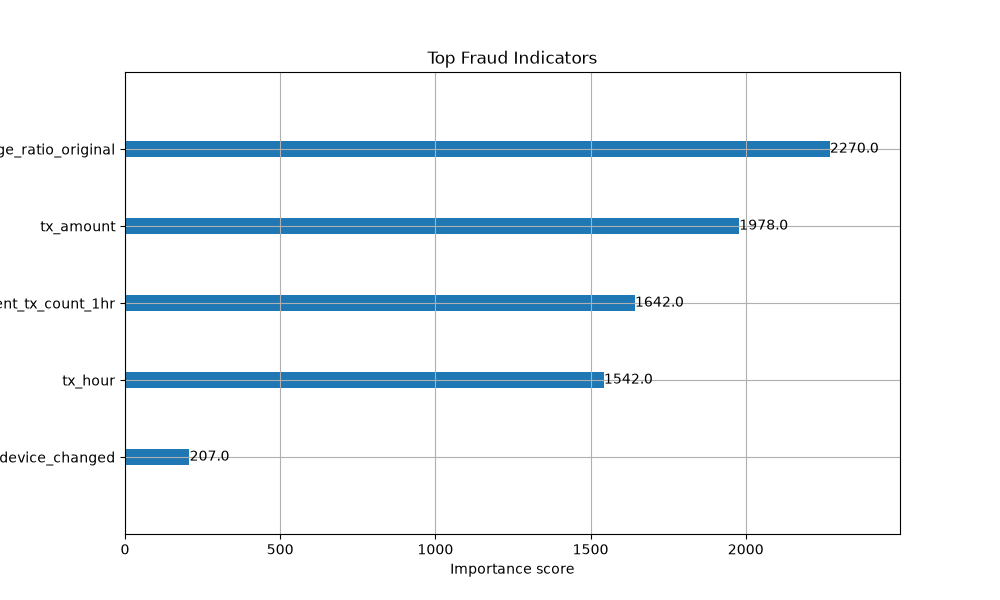
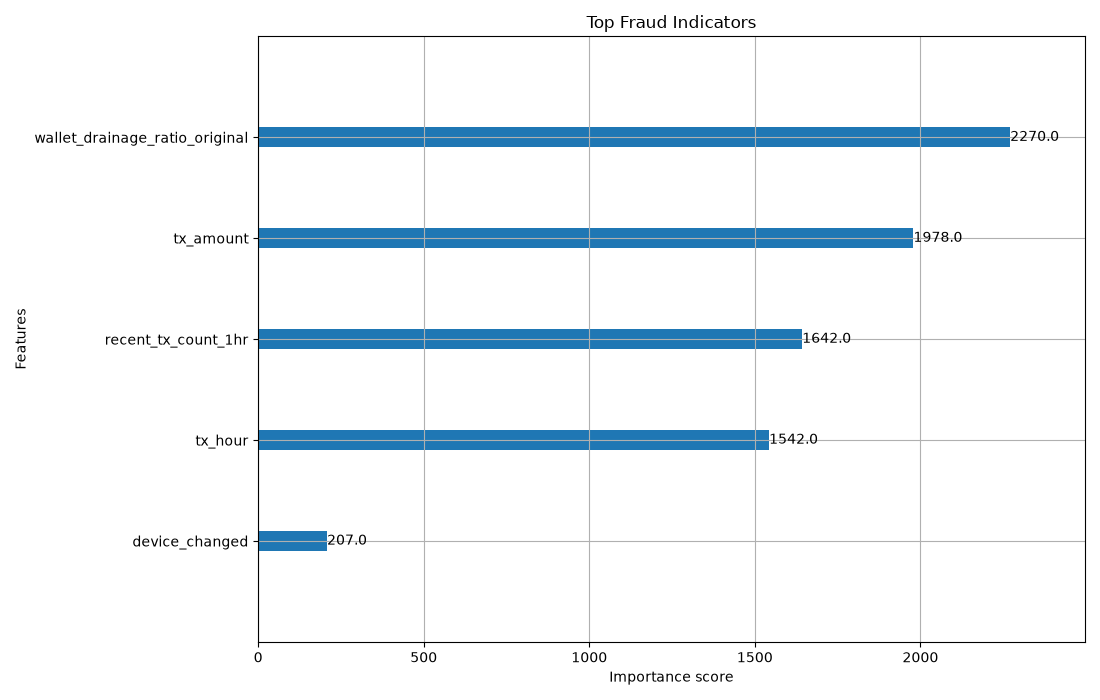
Add files via upload

diff --git a/train.py b/train.py
@@ -45,9 +45,10 @@ model = XGBClassifier(
 model.fit(X_train, y_train)
 
 # Features Importance
-fig1, ax1 = plt.subplots(figsize=(10, 6))
+fig1, ax1 = plt.subplots(figsize=(11, 7))
 plot_importance(model, max_num_features=5, importance_type='weight', ax=ax1)
 plt.title("Top Fraud Indicators")
+plt.tight_layout()
 plt.savefig("feature_importance.png") 
 plt.close(fig1)
 